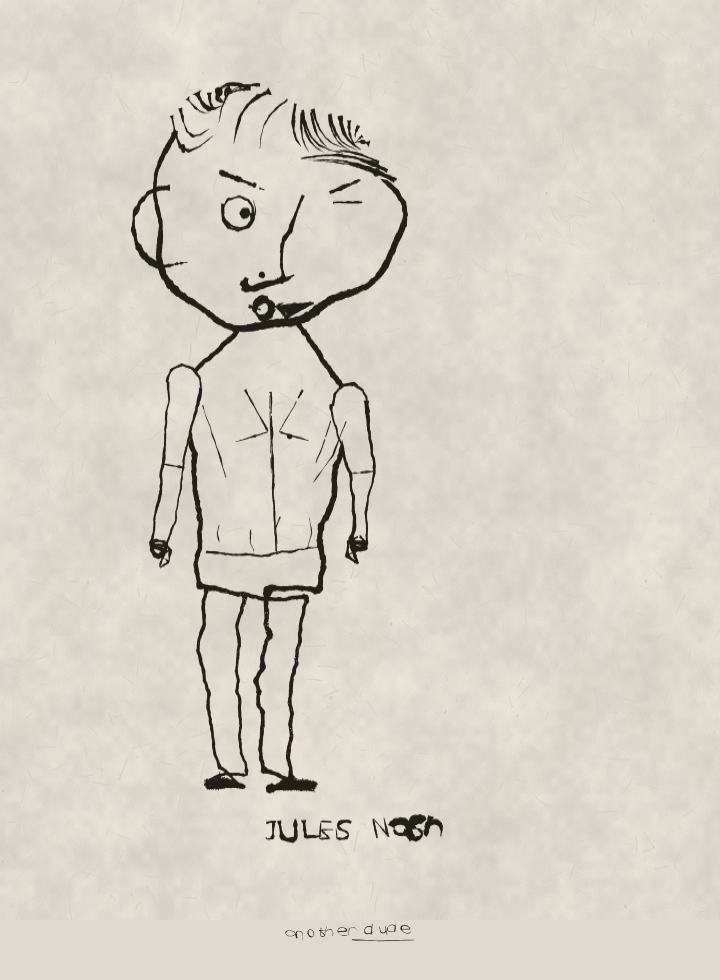
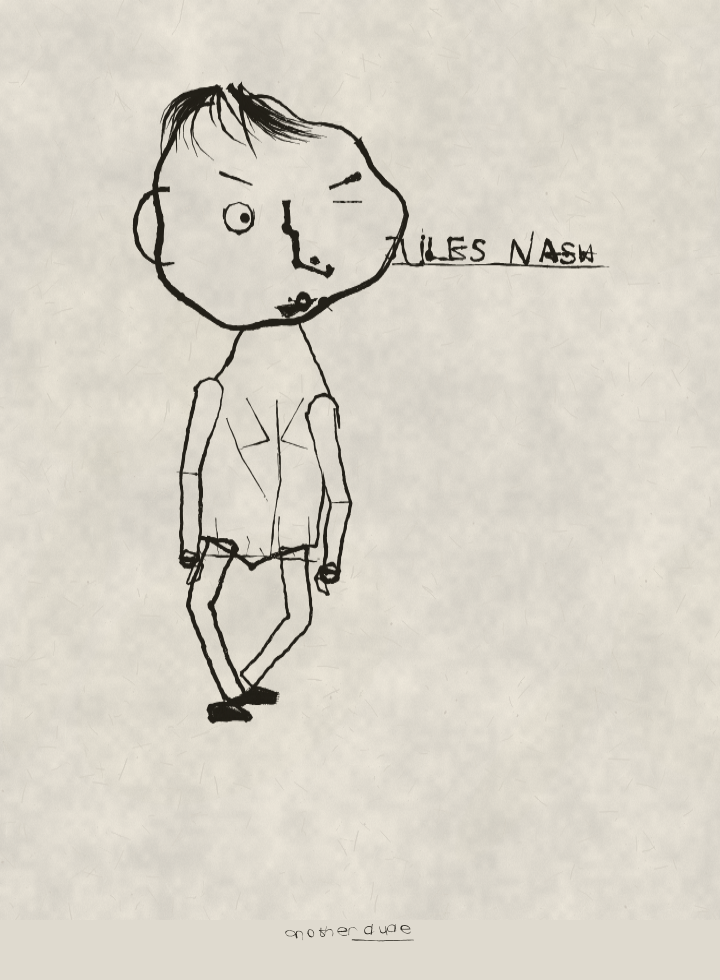
Gauntlet: body archetypes, and the bug behind the repeated black wedge
Bodies now come in kinds the way skulls do — stocky, lanky, pot, taper,
slight, ordinary — with shoulder and hip width, torso and leg length, arm
thickness and the waist profile all moving together, because a
barrel-chested man is not a lanky one with wider shoulders. Plus a waist
that is a belly or a pinch and never at the same height twice, four kinds
of shoe, and a stance that can be bowed, knock-kneed, wide or planted.

Then a real find. Critics kept reporting the same black hair wedge reused
at different scales and rotations, and it was not a lack of variety — it
was one geometry bug firing on every turned head. The crown arc selected
silhouette points lying above the chord between the two temples. Head-on
that is the top of the skull. On a hard turn both temples land on the
same side, the chord goes near-vertical, and everything above it is half
the head, which the hair then fills in solid. Two changes:

- the arc is now walked round by angle over the crown, which is
  indifferent to the pose
- the hairline is first trimmed to the stretch actually on the front of
  the skull. Its full sweep wraps round the back, where the ends project
  INWARD, so they were being used as temples near the crown and left the
  arc a seven-point sliver

Also fixed: the headband built its two edges by culling each ring
independently by depth, so on a turn they ended at different places and
the polygon between them crossed itself and flooded the face. Both edges
[…]

Changed region(s): [[0.1833, 0.0612, 0.55, 0.8571], [0.5194, 0.2143, 0.825, 0.2755], [0.5194, 0.8265, 0.6111, 0.8571]]

diff --git a/dude.js b/dude.js
@@ -974,31 +974,48 @@
       else if (sh === "jagged") y += (Math.round(Math.sin(u * 4.7 + 1.3) * 2) / 2) * 0.07;
       else if (sh === "low") y += 0.07 - temple * 0.03;
       y += (fbm2(u * 1.6 + 4, skull.yaw * 2 + (rng.seed % 53) * 0.07, rng.seed) - 0.5) * wob * 2;
-      y = clamp(y, -0.95, 0.3);
+      y = clamp(y, -0.95, 0.08);
       const p = pin(skull, sphere(u, Math.asin(clamp(y, -0.995, 0.995))));
       pts.push(p);
     }
     return pts;
   }
 
-  // The stretch of skull silhouette above a→b, walked b→a and pushed outward.
+  // The stretch of skull silhouette between the two temples, walked over the
+  // top and pushed outward.
+  //
+  // This used to select hull points lying above the chord from one temple to
+  // the other. That works head-on, but on a hard turn the two temples end up
+  // on the same side of the skull, the chord goes near-vertical, and "above
+  // it" is half the head — which the hair then fills in solid.
+  // Walking round by angle instead is indifferent to the pose.
   function crownArc(skull, hull, a, b, puff, rng) {
-    const dx = b.x - a.x;
-    const dy = b.y - a.y;
-    const d = Math.hypot(dx, dy) || 1;
-    const ux = dx / d;
-    const uy = dy / d;
-    const nx = uy; // "above" the a→b line is the negative-normal side
-    const ny = -ux;
-    const above = [];
-    for (const p of hull) {
-      const side = (p.x - a.x) * nx + (p.y - a.y) * ny;
-      if (side <= 0.5) continue;
-      above.push({ p, t: (p.x - a.x) * ux + (p.y - a.y) * uy, h: side });
-    }
-    above.sort((m, n) => n.t - m.t); // b-end first, walking back toward a
-    return above.map((m, i) => {
-      const q = m.p;
+    const n = hull.length;
+    if (n < 6) return [];
+    const idx = (p) => {
+      const ang = Math.atan2(p.y - skull.cy, p.x - skull.cx);
+      return ((Math.round(((ang + Math.PI) / (Math.PI * 2)) * n) % n) + n) % n;
+    };
+    const ia = idx(a);
+    const ib = idx(b);
+    const walk = (from, to, step) => {
+      const out = [];
+      let i = from;
+      for (let k = 0; k <= n; k++) {
+        out.push(i);
+        if (i === to) break;
+        i = (i + step + n) % n;
+      }
+      return out;
+    };
+    const topIdx = Math.round(n * 0.25) % n; // angle -PI/2 is straight up
+    const up = walk(ib, ia, -1);
+    const down = walk(ib, ia, 1);
+    let chosen = up.includes(topIdx) ? up : down;
+    // a crown arc never needs more than about half the outline
+    if (chosen.length > n * 0.72) chosen = chosen.length === up.length ? down : up;
+    return chosen.map((hi, i) => {
+      const q = hull[hi];
       const ox = q.x - skull.cx;
       const oy = q.y - skull.cy;
       const len = Math.hypot(ox, oy) || 1;
@@ -1008,17 +1025,36 @@
     });
   }
 
+  // Keep only the stretch of hairline that is actually on the front of the
+  // skull. The ends of the full sweep have wrapped round the back, where they
+  // project INWARD — so using them as the temples put both "temples" near the
+  // crown and left the crown arc a seven-point sliver.
+  function frontRun(pts) {
+    let best = null;
+    let run = null;
+    for (const p of pts) {
+      if (p.z === undefined || p.z > -0.02) {
+        if (!run) run = [p];
+        else run.push(p);
+        if (!best || run.length > best.length) best = run;
+      } else {
+        run = null;
+      }
+    }
+    return best && best.length >= 3 ? best : pts;
+  }
+
   function hairMass(skull, hull, rng, opt = {}) {
     // per-seed volume and reach, on top of whatever the style asked for, so
     // the same cap does not come out at forty scales and rotations
     opt = Object.assign({}, opt, {
-      puff: (opt.puff ?? 0.05) * rng.f(0.6, 1.45),
+      puff: (opt.puff ?? 0.05) * rng.f(1.05, 2.4),
       // u spans (t-0.5)*PI*wrap*1.9, so wrap above ~1.05 sends the hairline
       // round the back of the skull and the mass swallows the whole face
       wrap: Math.min(1.05, (opt.wrap ?? 1.02) * rng.f(0.84, 1.08)),
       sideBias: (opt.sideBias ?? 0) + rng.f(-0.1, 0.1),
     });
-    const front = hairline(skull, rng, opt);
+    const front = frontRun(hairline(skull, rng, opt));
     if (front.length < 3) return null;
     const a = front[0];
     const b = front[front.length - 1];
@@ -1026,6 +1062,33 @@
     const top = crownArc(skull, hull, a, b, puff, rng);
     if (top.length < 2) return null;
     return { front, top, mass: front.concat(top) };
+  }
+
+  // Two rings round the skull at different heights, kept to the longest span
+  // where BOTH are on the visible side, returned as a closed ribbon.
+  function ribbonBetween(skull, yHi, yLo, wrap = 0.92) {
+    const n = 40;
+    const vHi = Math.asin(Math.max(-0.95, Math.min(0.15, yHi)));
+    const vLo = Math.asin(Math.max(-0.95, Math.min(0.15, yLo)));
+    let best = null;
+    let run = null;
+    for (let i = 0; i <= n; i++) {
+      const u = (i / n - 0.5) * Math.PI * 2 * wrap;
+      const a = pin(skull, sphere(u, vHi));
+      const b = pin(skull, sphere(u, vLo));
+      if (a.z > -0.25 && b.z > -0.25) {
+        if (!run) run = { a: [a], b: [b] };
+        else {
+          run.a.push(a);
+          run.b.push(b);
+        }
+        if (!best || run.a.length > best.a.length) best = run;
+      } else {
+        run = null;
+      }
+    }
+    if (!best || best.a.length < 3) return null;
+    return { hi: best.a, lo: best.b, poly: best.a.concat(best.b.slice().reverse()) };
   }
 
   function hairlineRing(skull, hl, wrap = 0.92) {
@@ -1428,13 +1491,14 @@
       // hair first, then a band cutting across it
       const h = mk({ lineY: -0.5, puff: 0.09, wob: 0.05 });
       if (h) inkMass(c, rng, h, color, { strays: rng.chance(0.5) ? 7 : 0, strayLen: 1.3 });
-      const hi = hairlineRing(skull, -0.5, 0.92);
-      const lo = hairlineRing(skull, -0.34, 0.92);
-      const band = hi.concat(lo.slice().reverse());
-      if (band.length > 4) {
-        inkMassFill(c, rng, band, color, { bite: s * 0.022 });
-        inkPoly(c, rng, hi, { w: s * 0.02, dry: 0.5 });
-        inkPoly(c, rng, lo, { w: s * 0.024, dry: 0.4 });
+      // Both edges must be sampled over the SAME visible span. Culling each
+      // ring independently by depth leaves them ending at different places,
+      // and the polygon built from the two crosses itself and floods the face.
+      const band = ribbonBetween(skull, -0.5, -0.34, 0.92);
+      if (band) {
+        inkMassFill(c, rng, band.poly, color, { bite: s * 0.022 });
+        inkPoly(c, rng, band.hi, { w: s * 0.02, dry: 0.5 });
+        inkPoly(c, rng, band.lo, { w: s * 0.024, dry: 0.4 });
       }
       return;
     }
@@ -1931,17 +1995,48 @@
     }
   }
 
+  // Heads come in kinds; bodies were one trapezoid with the dials nudged, so
+  // six different men wore the identical mannequin. Same treatment: shoulder
+  // and hip width, torso and leg length, and the waist profile all move
+  // together, because a barrel-chested man is not a lanky one with wider
+  // shoulders.
+  function bodyKind(rng) {
+    const kinds = [
+      // stocky: wide, short, thick through the middle
+      () => ({ shW: rng.f(1.14, 1.42), hipW: rng.f(0.92, 1.18), torso: rng.f(1.6, 1.9),
+               legs: rng.f(1.3, 1.62), waist: rng.f(1.02, 1.16), armW: rng.f(0.2, 0.25) }),
+      // lanky: narrow, long, straight
+      () => ({ shW: rng.f(0.7, 0.9), hipW: rng.f(0.48, 0.66), torso: rng.f(2.2, 2.6),
+               legs: rng.f(2.1, 2.55), waist: rng.f(0.86, 0.98), armW: rng.f(0.13, 0.17) }),
+      // pot: narrow up top, heavy low down
+      () => ({ shW: rng.f(0.8, 1.0), hipW: rng.f(1.0, 1.3), torso: rng.f(1.85, 2.15),
+               legs: rng.f(1.5, 1.85), waist: rng.f(1.12, 1.34), armW: rng.f(0.17, 0.22) }),
+      // taper: broad shoulders down to nothing
+      () => ({ shW: rng.f(1.2, 1.5), hipW: rng.f(0.52, 0.72), torso: rng.f(1.95, 2.3),
+               legs: rng.f(1.85, 2.2), waist: rng.f(0.8, 0.94), armW: rng.f(0.18, 0.23) }),
+      // slight: small all over, short limbs
+      () => ({ shW: rng.f(0.72, 0.92), hipW: rng.f(0.56, 0.76), torso: rng.f(1.55, 1.85),
+               legs: rng.f(1.35, 1.7), waist: rng.f(0.92, 1.06), armW: rng.f(0.13, 0.18) }),
+      // ordinary, so the sheet has a baseline
+      () => ({ shW: rng.f(0.92, 1.14), hipW: rng.f(0.66, 0.88), torso: rng.f(1.9, 2.25),
+               legs: rng.f(1.7, 2.05), waist: rng.f(0.94, 1.08), armW: rng.f(0.16, 0.21) }),
+    ];
+    return rng.pick(kinds)();
+  }
+
   function drawBody(c, rng, cx, neckY, s, lean, clothes) {
     const lx = lean * s * 0.26;
-    const shW = s * rng.f(0.86, 1.16);
-    const hipW = s * rng.f(0.6, 0.86);
-    const shY = neckY + s * rng.f(0.36, 0.5);
-    const hipY = neckY + s * rng.f(1.95, 2.3);
-    const kneeY = hipY + s * rng.f(0.85, 1.05);
-    const footY = hipY + s * rng.f(1.7, 2.05);
-    const aw0 = rng.f(0.17, 0.22);
+    const B = bodyKind(rng);
+    const shW = s * B.shW;
+    const hipW = s * B.hipW;
+    const shY = neckY + s * rng.f(0.32, 0.54);
+    const hipY = neckY + s * B.torso;
+    const kneeY = hipY + s * B.legs * rng.f(0.46, 0.56);
+    const footY = hipY + s * B.legs;
+    const aw0 = B.armW;
     const armR = (t) => s * (aw0 - (aw0 - 0.082) * Math.pow(t, 0.75)) * (0.94 + 0.12 * fbm2(t * 3.4, aw0 * 90, 991));
-    const legR = (t) => s * (rng.f(0.18, 0.23) - 0.065 * t);
+    const lw0 = B.armW * rng.f(1.02, 1.22);
+    const legR = (t) => s * (lw0 - lw0 * 0.34 * t);
     const pose = clothes.pose;
     const shrug = rng.f(-0.06, 0.1);
     // no two sides of a drawn person agree
@@ -1980,12 +2075,15 @@
       ];
     };
 
+    // stance: bowed, knock-kneed, wide, or planted
+    const stance = rng.f(-0.22, 0.26);
+    const spread = rng.f(0.78, 1.35);
     const leg = (side) => {
       const drop = footY + s * rng.f(-0.09, 0.09);
       return [
         P(side * hipW * rng.f(0.48, 0.62) * asym(side), hipY - s * 0.05),
-        P(side * (hipW * 0.5 + s * rng.f(-0.14, 0.1)), kneeY + s * rng.f(-0.1, 0.1)),
-        P(side * (hipW * 0.46 + s * rng.f(-0.16, 0.16)), drop),
+        P(side * (hipW * 0.5 * spread + s * (stance + rng.f(-0.08, 0.08))), kneeY + s * rng.f(-0.1, 0.1)),
+        P(side * (hipW * 0.46 * spread + s * (-stance * 1.6 + rng.f(-0.12, 0.12))), drop),
       ];
     };
 
@@ -2014,8 +2112,11 @@
     const neckR = P(s * rng.f(0.15, 0.21), neckY - s * 0.42);
     const shoulderL = P(-shW * asymL, shY + s * shrug * -1);
     const shoulderR = P(shW * asymR, shY + s * shrug + s * rng.f(-0.06, 0.06));
-    const waistL = P(-hipW * 1.02, shY + s * 1.25);
-    const waistR = P(hipW * 1.02, shY + s * 1.25);
+    // a belly, or a pinch, or neither — and it is not at the same height twice
+    const waistY = shY + (hipY - shY) * rng.f(0.42, 0.68);
+    const midW = (shW + hipW) * 0.5 * B.waist;
+    const waistL = P(-midW * rng.f(0.94, 1.06), waistY);
+    const waistR = P(midW * rng.f(0.94, 1.06), waistY + s * rng.f(-0.06, 0.06));
     const hipL = P(-hipW, hipY);
     const hipR = P(hipW, hipY);
     const crotch = P(rng.f(-4, 4), hipY + s * rng.f(0.1, 0.3));
@@ -2039,13 +2140,44 @@
       return out;
     };
 
+    const shoeKind = rng.pick(["wedge", "round", "boot", "square", "round"]);
     const footPts = (ankle, side) => {
-      const toe = side * s * rng.f(0.26, 0.4);
+      const toe = side * s * rng.f(0.24, 0.44);
+      const h = s * rng.f(0.09, 0.15);
+      if (shoeKind === "round") {
+        const pts = [];
+        for (let i = 0; i <= 9; i++) {
+          const a = -Math.PI * 0.5 + (i / 9) * Math.PI;
+          pts.push({
+            x: ankle.x + Math.sin(a) * toe * (a > 0 ? 1 : 0.5),
+            y: ankle.y - s * 0.02 + (1 - Math.cos(a)) * h * 0.6,
+          });
+        }
+        pts.push({ x: ankle.x - side * s * 0.15, y: ankle.y + h });
+        return pts;
+      }
+      if (shoeKind === "boot") {
+        return [
+          { x: ankle.x - side * s * 0.16, y: ankle.y - s * rng.f(0.12, 0.26) },
+          { x: ankle.x + side * s * 0.15, y: ankle.y - s * rng.f(0.1, 0.22) },
+          { x: ankle.x + toe * 0.8, y: ankle.y + s * 0.02 },
+          { x: ankle.x + toe * 0.72, y: ankle.y + h },
+          { x: ankle.x - side * s * 0.18, y: ankle.y + h },
+        ];
+      }
+      if (shoeKind === "square") {
+        return [
+          { x: ankle.x - side * s * 0.13, y: ankle.y - s * 0.02 },
+          { x: ankle.x + toe * 0.85, y: ankle.y - s * 0.03 },
+          { x: ankle.x + toe * 0.85, y: ankle.y + h },
+          { x: ankle.x - side * s * 0.15, y: ankle.y + h },
+        ];
+      }
       return [
         { x: ankle.x + side * s * 0.13, y: ankle.y - s * 0.02 },
         { x: ankle.x + toe, y: ankle.y + s * 0.04 },
-        { x: ankle.x + toe * 0.92, y: ankle.y + s * 0.11 },
-        { x: ankle.x - side * s * 0.14, y: ankle.y + s * 0.1 },
+        { x: ankle.x + toe * 0.92, y: ankle.y + h },
+        { x: ankle.x - side * s * 0.14, y: ankle.y + h * 0.9 },
       ];
     };
     const Lfoot = footPts(LlS[LlS.length - 1], -1);
@@ -2254,7 +2386,11 @@
           ], { w: heavy * 0.42, dry: 0.9, wobble: s * 0.03 });
         }
       } else if (clothes.pattern === "dark") {
-        // a black garment, so the bottom of the page carries weight too
+        // a black garment — the garment, not the whole figure. The core
+        // outline runs all the way to the shoes.
+        c.beginPath();
+        c.rect(cx - s * 4, shY - s * 0.9, s * 8, hemY - shY + s * 0.9);
+        c.clip();
         inkMassFill(c, rng, core, INK, { bite: s * 0.06 });
       }
       c.restore();
